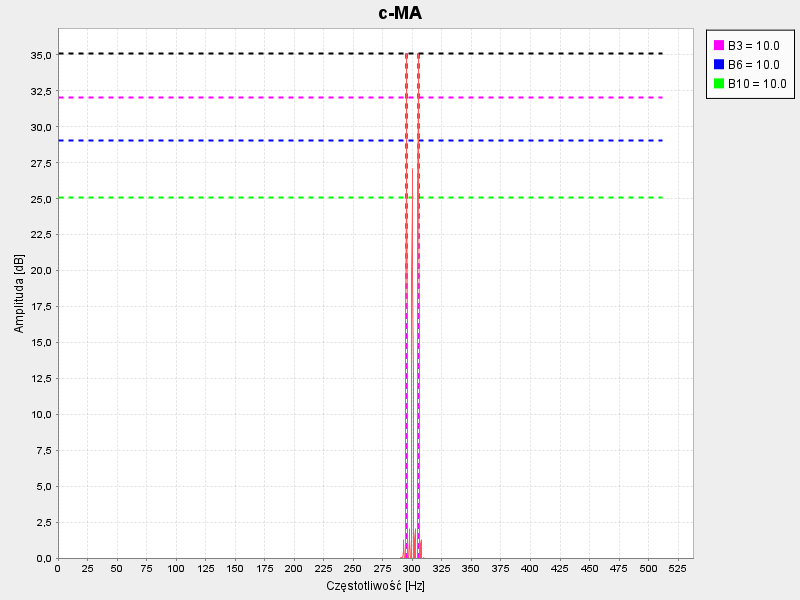
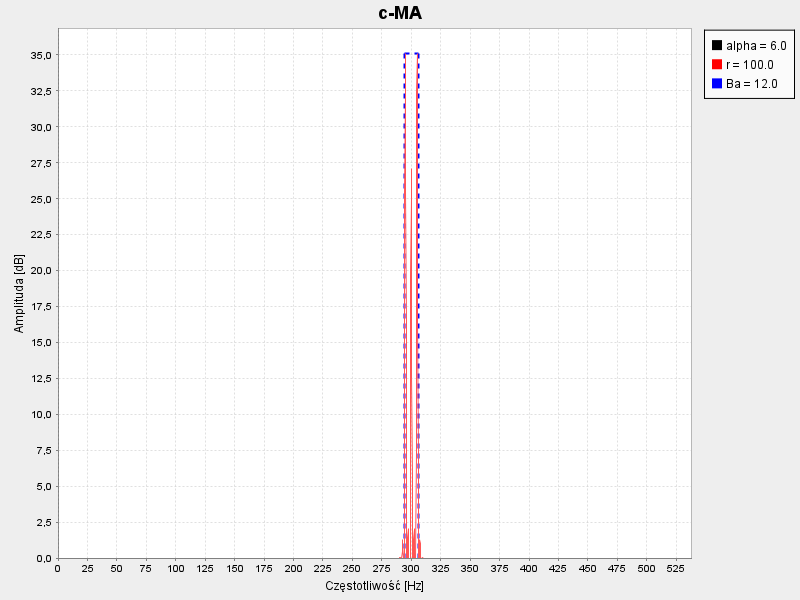
m

diff --git a/src/Chart/Chart.java b/src/Chart/Chart.java
@@ -205,4 +205,86 @@ public class Chart {
         }
     }
 
+    public static void saveChart2(XYSeries series, String title, String Xname, String Yname, String filename, double fa, double fb, String[] dane) {
+        XYSeriesCollection dataset = new XYSeriesCollection();
+        dataset.addSeries(series);
+
+        NumberAxis xAxis = new NumberAxis(Xname);
+        xAxis.setAutoRange(true);
+        NumberAxis yAxis = new NumberAxis(Yname);
+
+        XYSeriesCollection extraLines = new XYSeriesCollection();
+
+        double yTop = series.getMaxY();
+        double end = series.getMaxX();
+
+        XYSeries lineTop = new XYSeries("lineTop");
+        lineTop.add(fa, yTop);
+        lineTop.add(fb, yTop);
+        extraLines.addSeries(lineTop);
+
+        XYSeries lineFa = new XYSeries("lineFa");
+        lineFa.add(fa, 0);
+        lineFa.add(fa, yTop);
+        extraLines.addSeries(lineFa);
+
+        XYSeries lineFb = new XYSeries("lineFb");
+        lineFb.add(fb, 0);
+        lineFb.add(fb, yTop);
+        extraLines.addSeries(lineFb);
+
+        XYSplineRenderer renderer = new XYSplineRenderer();
+        renderer.setSeriesShapesVisible(0, false);
+
+        XYPlot plot = new XYPlot(dataset, xAxis, yAxis, renderer);
+
+        XYLineAndShapeRenderer extraRenderer = new XYLineAndShapeRenderer(true, false);
+        Stroke dashed = new BasicStroke(2.0f, BasicStroke.CAP_BUTT, BasicStroke.JOIN_BEVEL, 0, new float[]{5}, 0);
+
+        extraRenderer.setSeriesPaint(0, Color.BLUE);
+        extraRenderer.setSeriesStroke(0, dashed);
+
+        extraRenderer.setSeriesPaint(1, Color.BLUE);
+        extraRenderer.setSeriesStroke(1, dashed);
+
+        extraRenderer.setSeriesPaint(2, Color.BLUE);
+        extraRenderer.setSeriesStroke(2, dashed);
+
+        plot.setDataset(1, extraLines);
+        plot.setRenderer(1, extraRenderer);
+        plot.setDatasetRenderingOrder(DatasetRenderingOrder.REVERSE);
+
+        LegendItemCollection legendItems = new LegendItemCollection();
+        Color[] colors = new Color[]{Color.BLACK, Color.RED, Color.BLUE};
+        for (int i = 0; i < dane.length && i < colors.length; i++) {
+            LegendItem item = new LegendItem(dane[i], null, null, null, new Rectangle(10, 10), colors[i]);
+            legendItems.add(item);
+        }
+        plot.setFixedLegendItems(legendItems);
+
+        JFreeChart chart = new JFreeChart(title, JFreeChart.DEFAULT_TITLE_FONT, plot, false);
+        LegendTitle legend = new LegendTitle(plot);
+        legend.setPosition(RectangleEdge.RIGHT);
+        legend.setHorizontalAlignment(HorizontalAlignment.RIGHT);
+        legend.setVerticalAlignment(VerticalAlignment.TOP);
+        legend.setBackgroundPaint(new Color(255, 255, 255, 200));
+        legend.setFrame(new BlockBorder(Color.BLACK));
+        legend.setItemFont(new Font("SansSerif", Font.PLAIN, 12));
+        legend.setMargin(5, 5, 5, 5);
+        legend.setPadding(5, 5, 5, 5);
+        legend.setLegendItemGraphicPadding(new RectangleInsets(2, 2, 2, 2));
+        legend.setItemLabelPadding(new RectangleInsets(2, 2, 2, 2));
+
+        chart.addSubtitle(legend);
+
+        try {
+            File file = new File(filename);
+            ChartUtilities.saveChartAsPNG(file, chart, 800, 600);
+            System.out.println("Zapisano wykres: " + filename);
+        } catch (IOException e) {
+            e.printStackTrace();
+        }
+    }
+
+
 }

diff --git a/src/Lab5/Zad2.java b/src/Lab5/Zad2.java
@@ -11,7 +11,7 @@ import org.jfree.data.xy.XYSeries;
 import java.util.HashMap;
 import java.util.Map;
 
-public class Zad1 {
+public class Zad2 {
     public static void main(String[] args) {
         int fs = 1024;
         int T = 1;
@@ -84,26 +84,36 @@ public class Zad1 {
                     MSeries.add(fr, Math.max(dB, prog));
                 }
 
-                double top = MSeries.getMaxY();
-                double[] min = new double[B.length];
-                double[] max = new double[B.length];
-                for (int i = 0; i < B.length; i++) {
-                    double bottom = top - B[i];
-                    boolean isMin = false;
-                    series:
-                    for (int j = 0; j < MSeries.getItemCount(); j++) {
-                        double v = MSeries.getY(j).doubleValue();
-                        if (!isMin && v >= bottom) {
-                            min[i] = MSeries.getX(j).doubleValue();
-                            isMin = true;
-                        }
-                        if (v >= bottom) {
-                            max[i] = MSeries.getX(j).doubleValue();
-                        }
-                    }
-                    Bwidth[i] = max[i] - min[i];
+                double E = 0;
+                for (int i = 0; i < MSeries.getItemCount(); i++) {
+                    E += Math.pow(MSeries.getY(i).doubleValue(), 2.0);
                 }
-                Chart.saveChart(MSeries,c + "-M" + Z[o] , "Częstotliwość [Hz]", "Amplituda [dB]", "src/Lab5/plots/" + c + "-M" + Z[o] + ".png", B, Bwidth, min, max);
+                double ra = 0;
+                double alpha = 0;
+                double fa = 0;
+                double fb = 0;
+                while (ra <= 80) {
+                    alpha += 1.0;
+                    fa = fn - alpha;
+                    fb = fn + alpha;
+                    int faId = MSeries.indexOf(fa);
+                    int fbId = MSeries.indexOf(fb);
+                    double Ea = 0;
+                    for (int i = faId; i < fbId; i++) {
+                        Ea += Math.pow(MSeries.getY(i).doubleValue(), 2.0);
+                    }
+
+                    ra = Ea/E * 100;
+                }
+
+                double Ba = fb - fa;
+
+                String[] dane = new String[3];
+                dane[0] = "alpha = " + alpha;
+                dane[1] = "r = " + ra;
+                dane[2] = "Ba = " + Ba;
+
+                Chart.saveChart2(MSeries, c + "-M" + Z[o], "Częstotliwość [Hz]", "Amplituda [dB]", "src/Lab5/plots/" + c + "-M" + Z[o] + ".png", fa, fb, dane);
             }
         }
     }
